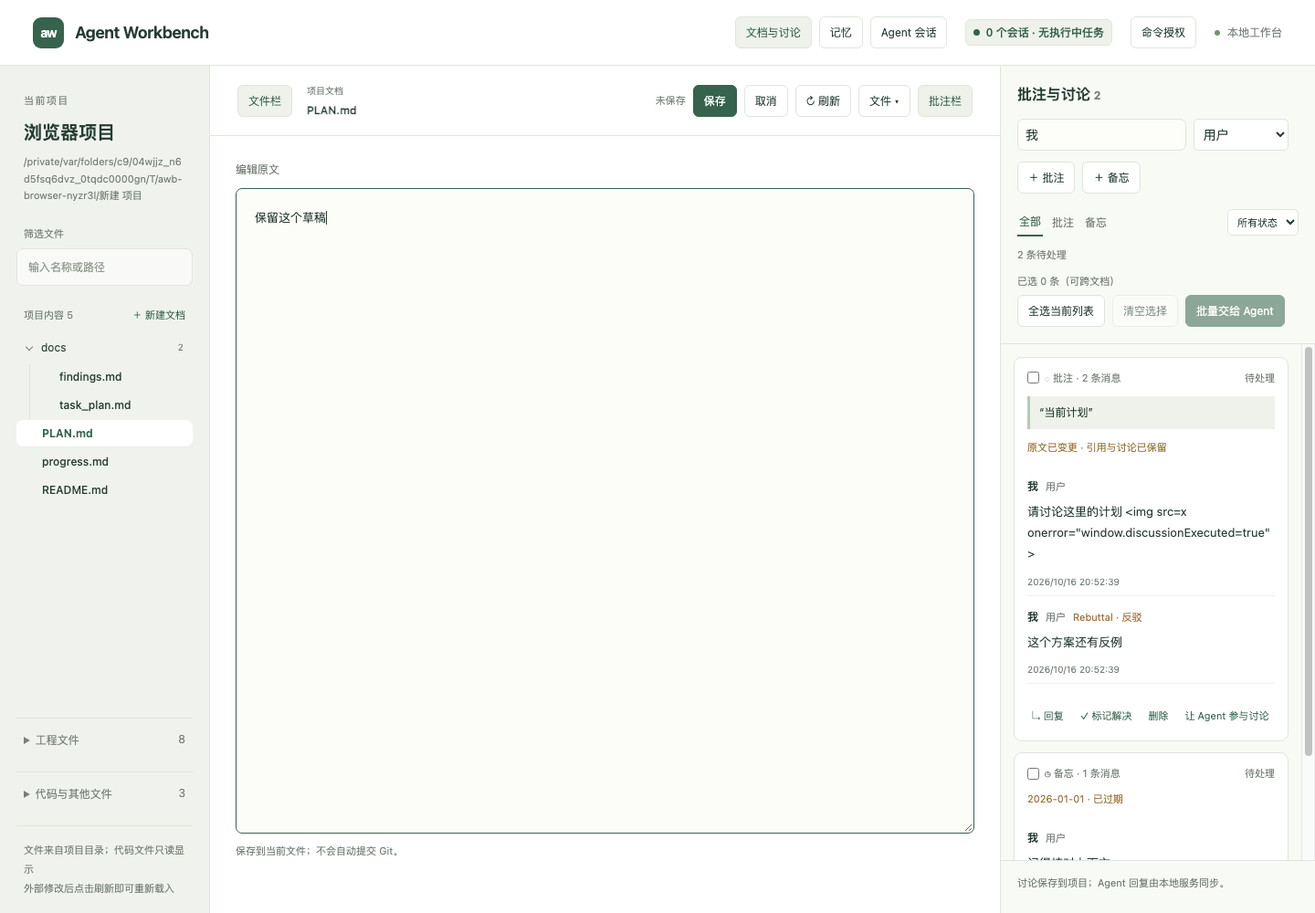
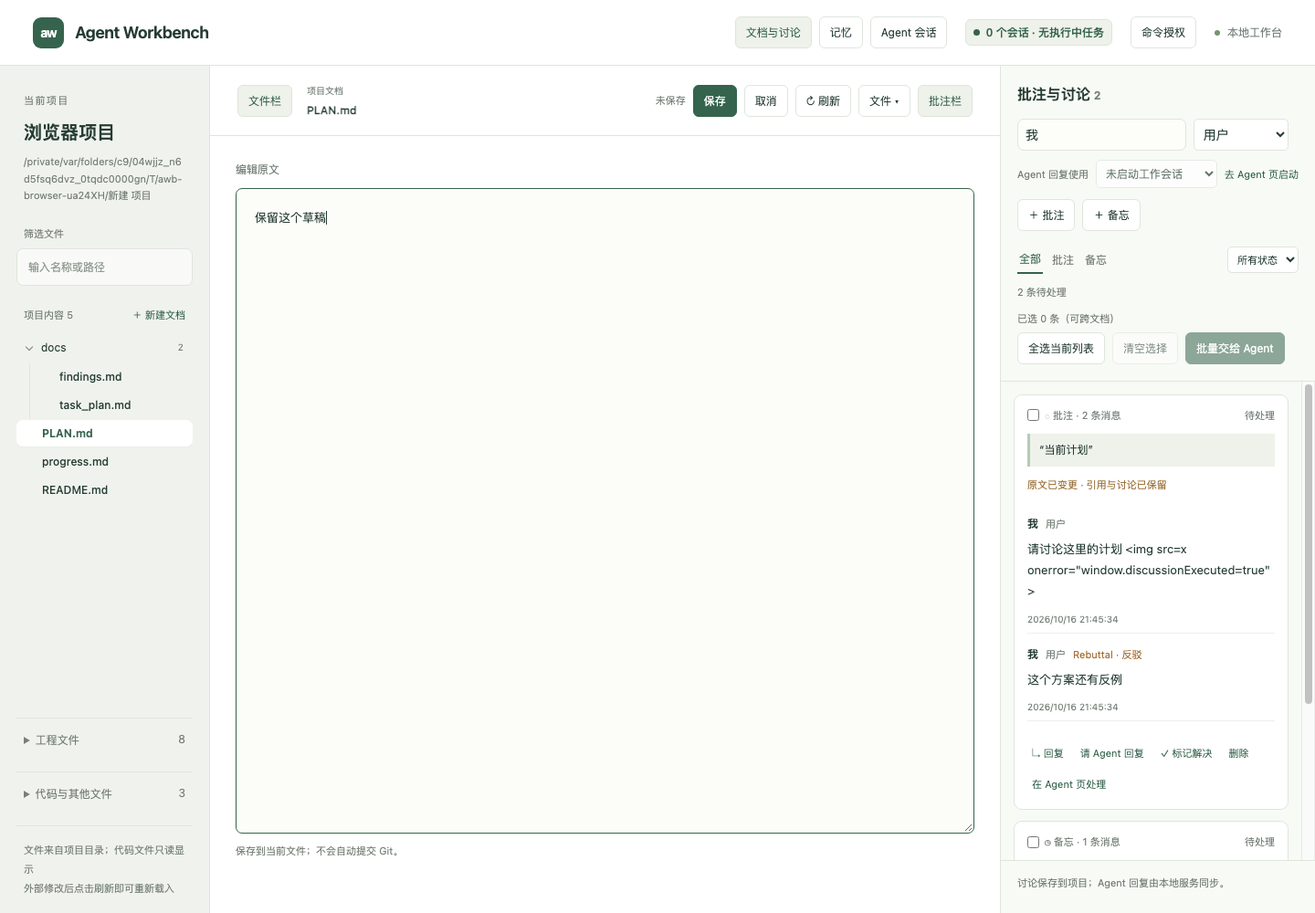
Make the document page the primary surface for discussions
Annotations are composed and expanded inline under the quoted
paragraph instead of in modal dialogs; whole-document comments and
memos use a composer at the top of the discussion panel. Annotated
paragraphs show markers, and one thread at a time expands inline
while the panel shows it in compact form.

A reply-agent selector in the panel lets "请 Agent 回复" and
"保存并请 Agent 回复" open the document's discussion session and send
the thread directly from the document page, without preview or a page
switch. Threads show agent progress (sending, replying, queued,
writing back) and the written-back reply appears in place. The agent
page keeps timelines, logs, approvals and queues; its task input can
now send without a prior preview, and its discussion panel gains a
save-and-ask action.

Closes #18
Closes #14
Closes #20
Closes #21

diff --git a/internal/server/web/collaboration.js b/internal/server/web/collaboration.js
@@ -2,8 +2,13 @@
 let collaboration = null;
 let threadFilter = 'all';
 let pendingAnchor = null;
+let pendingBlock = null;
 let discussionBusy = false;
 let dialogAction = null;
+// 正文内展开的讨论：同一时刻只展开一条，批注栏中对应条目改为简要显示。
+let openThreadID = '';
+// 编辑框状态：引用批注放在所选段落下方，整篇意见与备忘放在批注栏顶部；切换文档时保留内容。
+let composer = null;
 const replyDrafts = new Map();
 const esc = value => escapeHTML(String(value)).replaceAll('"','&quot;').replaceAll("'",'&#39;');
 const clone = value => structuredClone(value);
@@ -11,39 +16,83 @@ const uid = () => crypto.randomUUID();
 const currentDocument = () => collaboration?.documents.find(d => d.id === selected);
 const identity = () => ({author:$('author-name').value.trim()||'我',role:$('author-role').value});
 const makeMessage = (body,intent='comment') => ({id:uid(),...identity(),body:body.trim(),intent,createdAt:new Date().toISOString()});
+const articleBlocks = () => Array.from($('article').children).filter(el=>!el.hasAttribute('data-inline'));
 
 async function loadCollaboration() {
   try{collaboration = await api('collaboration');renderThreads();}
   catch(error){$('discussion-status').textContent='讨论读取失败：'+error.message;throw error;}
 }
 function resetDiscussionSelection() {
-  pendingAnchor=null;$('selection-tool').hidden=true;
+  pendingAnchor=null;pendingBlock=null;$('selection-tool').hidden=true;
 }
 function locateAnchor(anchor) {
   if(!anchor)return {element:null,reason:''};
   if(selectedKind!=='document'||!markdown)return {element:null,reason:'当前未载入正文'};
-  const matches=Array.from($('article').children).filter(el=>el.textContent.includes(anchor.quote));
+  const matches=articleBlocks().filter(el=>el.textContent.includes(anchor.quote));
   if(matches.length===1)return {element:matches[0],reason:''};
   if(matches.length>1){const contextual=matches.filter(el=>el.textContent.includes(anchor.before+anchor.quote+anchor.after));if(contextual.length===1)return {element:contextual[0],reason:''};return {element:null,reason:'原文有多处匹配，请结合引用确认位置'};}
   return {element:null,reason:'原文已变更 · 引用与讨论已保留'};
+}
+const inlineReady = () => selectedKind==='document'&&!!markdown&&!raw&&!!collaboration;
+function threadCardHTML(t,place) {
+  const inline=place==='inline',draft=replyDrafts.get(t.id),warning=inline?'':locateAnchor(t.anchor).reason;
+  const overdue=t.dueDate&&t.dueDate<new Date().toLocaleDateString('sv-SE')&&t.status==='open';
+  const label=`${t.kind==='memo'?'◷ 备忘':'◌ 批注'} · ${t.messages.length} 条消息`;
+  const top=`<div class="thread-top">${inline?`<span>${label}</span>`:`<label class="thread-select"><input type="checkbox" data-select-thread="${esc(t.id)}" aria-label="选择这条讨论" ${selectedDiscussionIDs.has(t.id)?'checked':''} ${batchBusy?'disabled':''}><span>${label}</span></label>`}<span>${t.status==='resolved'?'✓ 已解决':'待处理'}</span></div>`;
+  const status=`<div class="thread-agent-status" data-discussion-sessions="${esc(t.id)}"></div>`;
+  if(!inline&&t.id===openThreadID)return `<section class="thread compact ${t.status==='resolved'?'resolved':''}" data-thread="${esc(t.id)}">${top}<button class="thread-quote" data-locate="${esc(t.id)}">“${esc(t.anchor.quote)}”</button><p class="inline-note">已在正文中展开 <button type="button" data-collapse="${esc(t.id)}">收起</button></p>${status}</section>`;
+  const quote=!t.anchor?'':inline?`<blockquote class="thread-quote-text">${esc(t.anchor.quote)}</blockquote>`:`<button class="thread-quote" data-locate="${esc(t.id)}">“${esc(t.anchor.quote)}”</button>`;
+  return `<section class="thread ${inline?'inline-card':''} ${t.status==='resolved'?'resolved':''}" data-thread="${esc(t.id)}">${top}${quote}${warning?`<p class="anchor-warning">${esc(warning)}</p>`:''}${t.dueDate?`<p class="due">${esc(t.dueDate)}${overdue?' · 已过期':''}</p>`:''}${t.messages.map(m=>`<div class="message"><div class="message-meta"><strong>${esc(m.author)}</strong><span>${m.role==='agent'?'AGENT':'用户'}</span>${m.intent!=='comment'?`<span class="${m.intent}">${m.intent==='rebuttal'?'Rebuttal · 反驳':'结论'}</span>`:''}</div><div class="message-body markdown-message" data-message-id="${esc(m.id)}"></div><time>${esc(new Date(m.createdAt).toLocaleString('zh-CN'))}</time></div>`).join('')}${status}<div class="thread-bottom"><button data-reply="${esc(t.id)}">↳ 回复</button><button data-ask="${esc(t.id)}">请 Agent 回复</button><button data-resolve="${esc(t.id)}">${t.status==='resolved'?'重新打开':'✓ 标记解决'}</button><button data-delete="${esc(t.id)}">删除</button><button data-forward="${esc(t.id)}">在 Agent 页处理</button>${inline?`<button data-collapse="${esc(t.id)}">收起</button>`:''}</div><div class="reply-form" data-form="${esc(t.id)}" ${draft?'':'hidden'}><textarea aria-label="回复内容" data-draft="${esc(t.id)}" placeholder="补充意见、证据或修改建议…">${esc(draft?.body||'')}</textarea><div class="reply-actions"><select aria-label="回复类型"><option value="comment">普通回复</option><option value="rebuttal" ${draft?.intent==='rebuttal'?'selected':''}>Rebuttal · 反驳</option><option value="decision" ${draft?.intent==='decision'?'selected':''}>结论</option></select><span class="reply-buttons"><button class="small-button" data-send="${esc(t.id)}">发送回复</button><button class="small-button save-button" data-send-ask="${esc(t.id)}">保存并请 Agent 回复</button></span></div></div></section>`;
+}
+function renderMessageBodies(container,threads) {
+  for(const element of container.querySelectorAll('[data-message-id]')){const message=threads.flatMap(t=>t.messages).find(m=>m.id===element.dataset.messageId);if(message)renderProjectMarkdown(element,message.body,selected);}
 }
 function renderThreads() {
   const ready=!!collaboration&&selectedKind==='document'&&!!currentDocument();
   $('add-comment').disabled=!ready||discussionBusy;$('add-memo').disabled=!ready||discussionBusy;
   const all=collaboration?.threads.filter(t=>t.documentId===selected)||[];
+  if(openThreadID&&!(inlineReady()&&all.some(t=>t.id===openThreadID&&locateAnchor(t.anchor).element)))openThreadID='';
+  // 重新渲染会替换回复框；记录焦点与光标，渲染后恢复，避免轮询打断输入。
+  const active=document.activeElement,focusDraft=active?.dataset?.draft,caret=focusDraft?[active.selectionStart,active.selectionEnd]:null;
   $('thread-total').textContent=String(all.length);
   $('pending-count').textContent=`${all.filter(t=>t.status==='open').length} 条待处理`;
   const status=$('status-filter').value;
   const list=all.filter(t=>(threadFilter==='all'||t.kind===threadFilter)&&(status==='all'||t.status===status));
   visibleDiscussionIDs=list.map(t=>t.id);updateBatchSelection();
-  $('thread-list').innerHTML=list.length?list.map(t=>{
-    const draft=replyDrafts.get(t.id),warning=locateAnchor(t.anchor).reason;
-    const overdue=t.dueDate&&t.dueDate<new Date().toLocaleDateString('sv-SE')&&t.status==='open';
-    return `<section class="thread ${t.status==='resolved'?'resolved':''}" data-thread="${esc(t.id)}"><div class="thread-top"><label class="thread-select"><input type="checkbox" data-select-thread="${esc(t.id)}" aria-label="选择这条讨论" ${selectedDiscussionIDs.has(t.id)?'checked':''} ${batchBusy?'disabled':''}><span>${t.kind==='memo'?'◷ 备忘':'◌ 批注'} · ${t.messages.length} 条消息</span></label><span>${t.status==='resolved'?'✓ 已解决':'待处理'}</span></div>${t.anchor?`<button class="thread-quote" data-locate="${esc(t.id)}">“${esc(t.anchor.quote)}”</button>`:''}${warning?`<p class="anchor-warning">${esc(warning)}</p>`:''}${t.dueDate?`<p class="due">${esc(t.dueDate)}${overdue?' · 已过期':''}</p>`:''}${t.messages.map(m=>`<div class="message"><div class="message-meta"><strong>${esc(m.author)}</strong><span>${m.role==='agent'?'AGENT':'用户'}</span>${m.intent!=='comment'?`<span class="${m.intent}">${m.intent==='rebuttal'?'Rebuttal · 反驳':'结论'}</span>`:''}</div><div class="message-body markdown-message" data-message-id="${esc(m.id)}"></div><time>${esc(new Date(m.createdAt).toLocaleString('zh-CN'))}</time></div>`).join('')}<div class="thread-agent-status" data-discussion-sessions="${esc(t.id)}"></div><div class="thread-bottom"><button data-reply="${esc(t.id)}">↳ 回复</button><button data-resolve="${esc(t.id)}">${t.status==='resolved'?'重新打开':'✓ 标记解决'}</button><button data-delete="${esc(t.id)}">删除</button><button data-forward="${esc(t.id)}">让 Agent 参与讨论</button></div><div class="reply-form" data-form="${esc(t.id)}" ${draft?'':'hidden'}><textarea aria-label="回复内容" data-draft="${esc(t.id)}" placeholder="补充意见、证据或修改建议…">${esc(draft?.body||'')}</textarea><div class="reply-actions"><select aria-label="回复类型"><option value="comment">普通回复</option><option value="rebuttal" ${draft?.intent==='rebuttal'?'selected':''}>Rebuttal · 反驳</option><option value="decision" ${draft?.intent==='decision'?'selected':''}>结论</option></select><button class="small-button save-button" data-send="${esc(t.id)}">发送回复</button></div></div></section>`;
-  }).join(''):`<p class="empty-list">${selectedKind==='diagram'?'交互图在中间操作；选择文档可添加讨论。':selectedKind==='file'?'代码与其他文件只读显示，不支持批注；选择 Markdown 文档可添加讨论。':collaboration?'选中原文添加批注，或留下整篇意见与备忘。':'讨论尚未载入，请刷新重试。'}</p>`;
-  for(const element of $('thread-list').querySelectorAll('[data-message-id]')){const message=all.flatMap(t=>t.messages).find(m=>m.id===element.dataset.messageId);if(message)renderProjectMarkdown(element,message.body,selected);}
+  $('thread-list').innerHTML=list.length?list.map(t=>threadCardHTML(t,'panel')).join(''):`<p class="empty-list">${selectedKind==='diagram'?'交互图在中间操作；选择文档可添加讨论。':selectedKind==='file'?'代码与其他文件只读显示，不支持批注；选择 Markdown 文档可添加讨论。':collaboration?'选中原文添加批注，或留下整篇意见与备忘。':'讨论尚未载入，请刷新重试。'}</p>`;
+  renderMessageBodies($('thread-list'),all);
+  renderInlineDiscussion();
+  if(focusDraft){const target=document.querySelector(`[data-draft="${CSS.escape(focusDraft)}"]`);if(target){target.focus();target.setSelectionRange(...caret);}}
   if(typeof renderAgentStatus==='function')renderAgentStatus();
-  if(discussionBusy)for(const control of $('thread-list').querySelectorAll('button'))control.disabled=true;
+  if(discussionBusy)for(const control of document.querySelectorAll('#thread-list button,#article [data-inline] button'))control.disabled=true;
+}
+// 正文内显示：带引用批注的段落下方列出批注标记，展开的讨论显示在标记下方。插入的元素带 data-inline，不参与引用定位与选区计算。
+function renderInlineDiscussion() {
+  for(const el of $('article').querySelectorAll('[data-inline]:not(#inline-composer)'))el.remove();
+  for(const el of $('article').querySelectorAll('.has-thread'))el.classList.remove('has-thread');
+  if(inlineReady()){
+    const groups=new Map();
+    for(const t of collaboration.threads.filter(t=>t.documentId===selected&&t.anchor)){const {element}=locateAnchor(t.anchor);if(!element)continue;if(!groups.has(element))groups.set(element,[]);groups.get(element).push(t);}
+    for(const [element,threads] of groups){
+      element.classList.add('has-thread');
+      const bar=document.createElement('div');bar.className='thread-markers';bar.dataset.inline='';
+      for(const t of threads){const chip=document.createElement('button');chip.type='button';chip.className='thread-marker';chip.dataset.openThread=t.id;chip.classList.toggle('resolved',t.status==='resolved');chip.setAttribute('aria-expanded',String(t.id===openThreadID));const quote=t.anchor.quote.trim();chip.textContent=`◌ ${quote.length>18?quote.slice(0,18)+'…':quote} · ${t.messages.length}`;chip.title='在此展开讨论';bar.append(chip);}
+      element.after(bar);
+      const open=threads.find(t=>t.id===openThreadID);
+      if(open){const box=document.createElement('div');box.className='inline-thread';box.dataset.inline='';box.innerHTML=threadCardHTML(open,'inline');renderMessageBodies(box,[open]);bar.after(box);}
+    }
+  }
+  placeComposer();
+}
+function openThreadInline(id) {
+  const thread=collaboration?.threads.find(t=>t.id===id);if(!thread)return;
+  if(editing){$('discussion-status').textContent='请保存或取消原文编辑后定位';return;}
+  if(raw){raw=false;renderMarkdown();}
+  for(const el of $('article').querySelectorAll('.anchored'))el.classList.remove('anchored');
+  const found=locateAnchor(thread.anchor);
+  if(!found.element){$('discussion-status').textContent=found.reason;return;}
+  openThreadID=id;found.element.classList.add('anchored');renderThreads();
+  $('article').querySelector('.inline-thread')?.scrollIntoView({behavior:'smooth',block:'nearest'});
 }
 async function persistThreads(next) {
   if(discussionBusy)throw new Error('正在保存讨论，请稍候');
@@ -72,21 +121,52 @@ $('discussion-form').addEventListener('submit',async event=>{
   catch(error){$('discussion-dialog-error').textContent=error.message;$('discussion-dialog-error').hidden=false;}
   finally{$('discussion-dialog-submit').disabled=false;$('discussion-dialog-cancel').disabled=false;}
 });
-function composeThread(kind,anchor=null) {
-  const documentId=selected;
-  if(!currentDocument()||selectedKind!=='document')return;
-  const quote=anchor?clone(anchor):null;
-  $('selection-tool').hidden=true;
-  openDiscussionDialog(kind==='memo'?'添加备忘':'添加批注',`${quote?`<blockquote>${esc(quote.quote)}</blockquote>`:`<p>关联文档：${esc(documentId)}</p>`}<label>内容<textarea id="compose-body" required maxlength="20000" placeholder="写下问题、建议或下一步…"></textarea></label><label>消息意图<select id="compose-intent"><option value="comment">普通意见</option><option value="rebuttal">Rebuttal · 反驳</option><option value="decision">结论</option></select></label>${kind==='memo'?'<label>备忘日期（可选）<input type="date" id="compose-date"></label><p>日期只在页面提示，不推送通知。</p>':''}`,async()=>{
-    const body=$('compose-body').value.trim();if(!body)throw new Error('请填写内容');
-    const next=clone(collaboration.threads);
-    next.push({id:uid(),documentId,kind,status:'open',dueDate:kind==='memo'?$('compose-date').value:'',anchor:quote,messages:[makeMessage(body,$('compose-intent').value)]});
-    await persistThreads(next);
-    threadFilter='all';$('status-filter').value='all';updateThreadFilters();renderThreads();
-    window.getSelection()?.removeAllRanges();
-  });$('compose-body').focus();
+
+// 编辑框为常驻表单，移动位置时保留输入内容。
+const composerForm=document.createElement('form');
+composerForm.id='inline-composer';composerForm.className='inline-composer';composerForm.dataset.inline='';
+const cf=id=>composerForm.querySelector('#'+id);
+composerForm.innerHTML='<p id="compose-title" class="compose-title"></p><blockquote id="compose-quote" hidden></blockquote><textarea id="compose-body" required maxlength="20000" aria-label="批注内容" placeholder="写下问题、建议或下一步…"></textarea><div class="compose-options"><select id="compose-intent" aria-label="消息意图"><option value="comment">普通意见</option><option value="rebuttal">Rebuttal · 反驳</option><option value="decision">结论</option></select><label id="compose-date-label" hidden>备忘日期（可选）<input type="date" id="compose-date"></label></div><p id="compose-error" role="alert" hidden></p><div class="reply-actions"><button type="button" id="compose-cancel" class="small-button">取消</button><span class="reply-buttons"><button type="submit" id="compose-save" class="small-button">保存</button><button type="button" id="compose-ask" class="small-button save-button">保存并请 Agent 回复</button></span></div>';
+function placeComposer() {
+  if(!composer||composer.documentId!==selected||selectedKind!=='document'||composer.anchor&&!markdown){composerForm.remove();return;}
+  const found=composer.anchor&&inlineReady()?locateAnchor(composer.anchor).element:null;
+  if(found){if(found.nextElementSibling!==composerForm)found.after(composerForm);}
+  else if(composerForm.parentElement!==$('panel-composer'))$('panel-composer').append(composerForm);
 }
+function composeThread(kind,anchor=null,block=null) {
+  if(!currentDocument()||selectedKind!=='document')return;
+  if(composer&&cf('compose-body').value.trim()&&!confirm('放弃当前未保存的批注？'))return;
+  composer={kind,documentId:selected,anchor:anchor?clone(anchor):null};
+  cf('compose-title').textContent=kind==='memo'?'添加备忘':anchor?'添加批注':'添加整篇意见';
+  cf('compose-quote').textContent=anchor?anchor.quote:'';cf('compose-quote').hidden=!anchor;
+  cf('compose-body').value='';cf('compose-intent').value='comment';cf('compose-date').value='';cf('compose-date-label').hidden=kind!=='memo';cf('compose-error').hidden=true;
+  $('selection-tool').hidden=true;
+  if(block&&inlineReady())block.after(composerForm);else placeComposer();
+  composerForm.scrollIntoView({block:'nearest'});cf('compose-body').focus({preventScroll:true});
+}
+function closeComposer() {composer=null;cf('compose-body').value='';composerForm.remove();}
+async function submitComposer(ask) {
+  if(!composer||discussionBusy)return;
+  const body=cf('compose-body').value.trim();
+  for(const id of ['compose-save','compose-ask','compose-cancel'])cf(id).disabled=true;cf('compose-error').hidden=true;
+  try{
+    if(!body)throw new Error('请填写内容');
+    const id=uid(),next=clone(collaboration.threads);
+    next.push({id,documentId:composer.documentId,kind:composer.kind,status:'open',dueDate:composer.kind==='memo'?cf('compose-date').value:'',anchor:composer.anchor,messages:[makeMessage(body,cf('compose-intent').value)]});
+    await persistThreads(next);
+    const anchored=!!composer.anchor;closeComposer();window.getSelection()?.removeAllRanges();
+    threadFilter='all';$('status-filter').value='all';updateThreadFilters();
+    if(anchored)openThreadInline(id);else renderThreads();
+    if(ask)await requestAgentReply(id);
+  }catch(error){cf('compose-error').textContent=error.message;cf('compose-error').hidden=false;}
+  finally{for(const id of ['compose-save','compose-ask','compose-cancel'])cf(id).disabled=false;}
+}
+composerForm.addEventListener('submit',event=>{event.preventDefault();submitComposer(false);});
+cf('compose-ask').onclick=()=>submitComposer(true);
+cf('compose-cancel').onclick=()=>{if(!discussionBusy)closeComposer();};
+composerForm.addEventListener('keydown',event=>{if(event.key==='Escape'&&!discussionBusy&&!cf('compose-body').value.trim())closeComposer();});
 $('add-comment').onclick=()=>composeThread('comment');$('add-memo').onclick=()=>composeThread('memo');
+
 function captureSelection() {
   if(editing||raw||selectedKind!=='document'||$('discussion-dialog').open)return resetDiscussionSelection();
   const selection=window.getSelection();
@@ -96,48 +176,47 @@ function captureSelection() {
   function block(node){let el=node.nodeType===1?node:node.parentElement;while(el&&el.parentElement!==$('article'))el=el.parentElement;return el;}
   const start=block(range.startContainer),end=block(range.endContainer);
   const quote=selection.toString();
-  if(start!==end||!quote.trim()||quote.length>20000)return resetDiscussionSelection();
+  if(start!==end||start?.hasAttribute('data-inline')||!quote.trim()||quote.length>20000)return resetDiscussionSelection();
   // Range 定位实际选中位置，避免重复文字取到第一个匹配。
   const prefix=document.createRange();prefix.selectNodeContents(start);prefix.setEnd(range.startContainer,range.startOffset);
   const index=prefix.toString().length,text=start.textContent;
-  pendingAnchor={quote,before:text.slice(Math.max(0,index-48),index),after:text.slice(index+quote.length,index+quote.length+48),revision:currentDocument()?.revision||1};
+  pendingAnchor={quote,before:text.slice(Math.max(0,index-48),index),after:text.slice(index+quote.length,index+quote.length+48),revision:currentDocument()?.revision||1};pendingBlock=start;
   const rect=range.getBoundingClientRect();$('selection-tool').style.left=Math.min(Math.max(12,rect.left),window.innerWidth-170)+'px';$('selection-tool').style.top=Math.max(8,rect.top-42)+'px';$('selection-tool').hidden=false;
 }
-$('article').addEventListener('mouseup',()=>setTimeout(captureSelection,10));$('article').addEventListener('keyup',captureSelection);
+$('article').addEventListener('mouseup',()=>setTimeout(captureSelection,10));$('article').addEventListener('keyup',event=>{if(!event.target.closest('[data-inline]'))captureSelection();});
 document.querySelector('.reader').addEventListener('scroll',()=>$('selection-tool').hidden=true);
-$('selection-tool').onpointerdown=event=>event.preventDefault();$('selection-tool').onclick=()=>composeThread('comment',pendingAnchor);
+$('selection-tool').onpointerdown=event=>event.preventDefault();$('selection-tool').onclick=()=>composeThread('comment',pendingAnchor,pendingBlock);
 document.addEventListener('pointerdown',event=>{if(!event.target.closest('#article')&&!event.target.closest('#selection-tool'))$('selection-tool').hidden=true;});
 function updateThreadFilters(){for(const button of document.querySelectorAll('[data-thread-filter]'))button.setAttribute('aria-pressed',String(button.dataset.threadFilter===threadFilter));}
 for(const button of document.querySelectorAll('[data-thread-filter]'))button.onclick=()=>{threadFilter=button.dataset.threadFilter;updateThreadFilters();renderThreads();};
 $('status-filter').onchange=renderThreads;
 $('thread-list').addEventListener('change',event=>{if(event.target.dataset.selectThread){const id=event.target.dataset.selectThread;if(event.target.checked)selectedDiscussionIDs.add(id);else selectedDiscussionIDs.delete(id);updateBatchSelection();}});
-$('thread-list').addEventListener('input',event=>{
+function trackReplyDraft(event){
   const form=event.target.closest('[data-form]');if(form)replyDrafts.set(form.dataset.form,{body:form.querySelector('textarea').value,intent:form.querySelector('select').value});
-});
-$('thread-list').addEventListener('click',async event=>{
+}
+async function handleThreadClick(event){
   const button=event.target.closest('button');if(!button||discussionBusy||!collaboration)return;
-  const id=button.dataset.reply||button.dataset.resolve||button.dataset.send||button.dataset.delete||button.dataset.locate||button.dataset.forward;
+  const data=button.dataset,id=data.reply||data.resolve||data.send||data.sendAsk||data.ask||data.delete||data.locate||data.forward||data.collapse||data.openThread;
   const thread=collaboration.threads.find(t=>t.id===id);if(!thread)return;
-  if(button.dataset.forward){forwardThreadToAgent(id);return;}
-  if(button.dataset.locate){
-    if(editing){$('discussion-status').textContent='请保存或取消原文编辑后定位';return;}
-    if(raw){raw=false;renderMarkdown();}
-    $('article').querySelectorAll('.anchored').forEach(el=>el.classList.remove('anchored'));
-    const found=locateAnchor(thread.anchor);if(found.element){found.element.classList.add('anchored');found.element.scrollIntoView({behavior:'smooth',block:'center'});}else $('discussion-status').textContent=found.reason;return;
-  }
-  if(button.dataset.reply){replyDrafts.set(id,replyDrafts.get(id)||{body:'',intent:'comment'});renderThreads();Array.from($('thread-list').querySelectorAll('[data-form]')).find(el=>el.dataset.form===id)?.querySelector('textarea').focus();return;}
+  if(data.forward){forwardThreadToAgent(id);return;}
+  if(data.locate||data.openThread){if(data.openThread&&openThreadID===id){openThreadID='';renderThreads();}else openThreadInline(id);return;}
+  if(data.collapse){openThreadID='';renderThreads();return;}
+  if(data.reply){replyDrafts.set(id,replyDrafts.get(id)||{body:'',intent:'comment'});renderThreads();document.querySelector(`[data-form="${CSS.escape(id)}"] textarea`)?.focus();return;}
+  if(data.ask){try{await requestAgentReply(id);showError(null);}catch(error){showError(error);}return;}
   try {
     const next=clone(collaboration.threads),target=next.find(t=>t.id===id);
-    if(button.dataset.resolve)target.status=target.status==='open'?'resolved':'open';
-    if(button.dataset.delete){if(!confirm('删除这条讨论及全部回复？'))return;next.splice(next.indexOf(target),1);}
-    if(button.dataset.send){const form=button.closest('[data-form]'),body=form.querySelector('textarea').value.trim();if(!body)throw new Error('请填写回复');replyDrafts.set(id,{body,intent:form.querySelector('select').value});target.messages.push(makeMessage(body,form.querySelector('select').value));}
+    if(data.resolve)target.status=target.status==='open'?'resolved':'open';
+    if(data.delete){if(!confirm('删除这条讨论及全部回复？'))return;next.splice(next.indexOf(target),1);}
+    if(data.send||data.sendAsk){const form=button.closest('[data-form]'),body=form.querySelector('textarea').value.trim();if(!body)throw new Error('请填写回复');replyDrafts.set(id,{body,intent:form.querySelector('select').value});target.messages.push(makeMessage(body,form.querySelector('select').value));}
     await persistThreads(next);
-    if(button.dataset.send||button.dataset.delete){replyDrafts.delete(id);renderThreads();}
+    if(data.send||data.sendAsk||data.delete){replyDrafts.delete(id);renderThreads();}
+    if(data.sendAsk)await requestAgentReply(id);
     showError(null);
   }catch(error){showError(error);}
-});
+}
+for(const container of [$('thread-list'),$('article')]){container.addEventListener('click',handleThreadClick);container.addEventListener('input',trackReplyDraft);container.addEventListener('change',trackReplyDraft);}
 
 window.addEventListener('beforeunload',event=>{
-  const compose=$('discussion-dialog').open&&$('compose-body')?.value.trim();
+  const compose=composer&&cf('compose-body').value.trim();
   if(discussionBusy||compose||Array.from(replyDrafts.values()).some(draft=>draft.body.trim())){event.preventDefault();event.returnValue='';}
 });

diff --git a/internal/server/web/index.html b/internal/server/web/index.html
@@ -24,9 +24,10 @@
  <aside id="discussion-panel" class="discussion" aria-label="批注与讨论">
  <div class="discussion-head"><h2>批注与讨论 <span id="thread-total">0</span></h2>
  <div class="identity-line"><input id="author-name" value="我" maxlength="80" aria-label="当前署名"><select id="author-role" aria-label="作者角色"><option value="human">用户</option><option value="agent">Agent 署名</option></select></div>
+ <div class="reply-agent-line"><label for="reply-agent">Agent 回复使用</label><select id="reply-agent" aria-label="请 Agent 回复时使用的工作会话"></select><button id="reply-agent-start" type="button" class="link-button" hidden>去 Agent 页启动</button></div>
  <div class="discussion-actions"><button id="add-comment" class="small-button">＋ 批注</button><button id="add-memo" class="small-button">＋ 备忘</button></div>
  <div class="panel-tabs"><button data-thread-filter="all" aria-pressed="true">全部</button><button data-thread-filter="comment" aria-pressed="false">批注</button><button data-thread-filter="memo" aria-pressed="false">备忘</button><select id="status-filter" aria-label="处理状态筛选"><option value="all">所有状态</option><option value="open">待处理</option><option value="resolved">已解决</option></select></div>
- <p id="pending-count"></p><div class="batch-selection"><span id="batch-selection-count">已选 0 条（可跨文档）</span><div class="discussion-actions"><button id="batch-select-visible" class="small-button">全选当前列表</button><button id="batch-clear-selection" class="small-button" disabled>清空选择</button><button id="batch-open" class="small-button save-button" disabled>批量交给 Agent</button></div></div></div><div id="thread-list" class="thread-list"></div>
+ <p id="pending-count"></p><div class="batch-selection"><span id="batch-selection-count">已选 0 条（可跨文档）</span><div class="discussion-actions"><button id="batch-select-visible" class="small-button">全选当前列表</button><button id="batch-clear-selection" class="small-button" disabled>清空选择</button><button id="batch-open" class="small-button save-button" disabled>批量交给 Agent</button></div></div></div><div id="panel-composer" class="panel-composer"></div><div id="thread-list" class="thread-list"></div>
  <div class="discussion-footer"><p id="discussion-status" role="status">讨论保存到项目；Agent 回复由本地服务同步。</p></div>
  </aside>
 </div>
@@ -34,8 +35,8 @@
  <aside class="agent-sidebar"><span class="eyebrow">原生会话</span><h2>项目中的 Agent</h2><button id="new-agent" class="small-button save-button">＋ 启动 Codex</button><nav id="agent-list" aria-label="Agent 会话"></nav><p>会话共享当前项目目录。输入通过本地服务交给原生 Codex。</p></aside>
  <main class="agent-main"><div class="agent-toolbar"><div><h2 id="agent-title">选择或创建会话</h2><p id="agent-state" class="agent-state-badge" role="status" aria-live="polite"></p><p id="agent-config"></p></div><div class="agent-controls"><button id="configure-agent-authorizations" class="small-button" disabled>命令授权</button><button id="delete-agent" class="small-button" disabled>删除会话</button><button id="resume-agent" class="small-button" hidden>恢复会话</button><button id="interrupt-agent" class="small-button" disabled>停止回合</button><button id="compact-agent" class="small-button" disabled>清空上下文</button><button id="close-agent" class="small-button" disabled>关闭会话</button></div></div>
  <div id="agent-requests" class="agent-requests"></div><div id="agent-queue" class="agent-queue" hidden><span id="agent-queue-count"></span><button id="continue-agent-queue" class="small-button">继续队列</button><button id="clear-agent-queue" class="small-button">清空队列</button></div>
- <div class="agent-log-heading"><span>对话与执行 · 各保留最近 100 条</span><label><input id="agent-raw-events" type="checkbox"> 显示原始事件</label><span id="agent-log-status" role="status"></span></div><details id="agent-history" class="agent-history"><summary>查看完整原始日志</summary><div class="agent-history-actions"><button id="agent-history-previous" type="button" class="small-button" disabled>上一批</button><button id="agent-history-next" type="button" class="small-button">下一批</button><span id="agent-history-range"></span></div><pre id="agent-history-content"></pre></details><div class="agent-content"><div id="agent-events" class="agent-events agent-timelines"><section class="agent-timeline"><h3>对话</h3><p id="agent-activity" class="agent-activity" role="status" aria-live="polite" hidden></p><div id="agent-conversation" class="timeline-content"></div></section><section class="agent-timeline"><h3>执行过程</h3><div id="agent-execution" class="timeline-content"></div></section></div><aside id="agent-bound-discussion" class="bound-discussion" hidden><h3 id="agent-discussion-title">关联讨论</h3><p id="agent-discussion-origin"></p><div class="bound-actions"><button id="open-agent-document" type="button" class="small-button">查看文档</button><button id="return-to-work" type="button" class="small-button">送回工作会话</button></div><div id="agent-discussion-messages"></div><form id="agent-discussion-form"><label for="agent-discussion-thread">回复到</label><select id="agent-discussion-thread"></select><label for="agent-discussion-reply">发言</label><textarea id="agent-discussion-reply" maxlength="20000" required></textarea><button id="save-agent-discussion-reply" class="small-button" type="submit">保存发言</button><small>仅保存讨论；预览并发送后才启动 Agent。</small></form><p id="agent-discussion-sync" role="status"></p></aside></div>
- <form id="agent-input-form" class="agent-input-form"><label for="agent-message">给 Agent 的任务或消息</label><textarea id="agent-message" placeholder="描述要做的事，或从文档讨论手动转发…" maxlength="20000" required></textarea><div class="agent-input-options"><label><input id="include-current-document" type="checkbox"> 附上文档正文（可选） <span id="agent-document-label"></span></label><span id="agent-thread-context"></span><label id="full-context-option" hidden><input id="full-agent-context" type="checkbox"> 重发完整讨论</label><button id="clear-agent-thread" type="button" class="small-button" hidden>改为全部待处理讨论</button></div><details id="agent-preview-panel" hidden><summary>将发送的完整内容</summary><pre id="agent-preview"></pre></details><p id="agent-send-hint" class="subtle" role="status">输入消息后，先点击「预览任务」，再发送。</p><div class="agent-input-actions"><span id="agent-input-status" role="status"></span><button id="preview-agent-input" type="button" class="small-button">预览任务</button><button id="send-agent-input" type="submit" class="small-button save-button" disabled>发送</button></div></form>
+ <div class="agent-log-heading"><span>对话与执行 · 各保留最近 100 条</span><label><input id="agent-raw-events" type="checkbox"> 显示原始事件</label><span id="agent-log-status" role="status"></span></div><details id="agent-history" class="agent-history"><summary>查看完整原始日志</summary><div class="agent-history-actions"><button id="agent-history-previous" type="button" class="small-button" disabled>上一批</button><button id="agent-history-next" type="button" class="small-button">下一批</button><span id="agent-history-range"></span></div><pre id="agent-history-content"></pre></details><div class="agent-content"><div id="agent-events" class="agent-events agent-timelines"><section class="agent-timeline"><h3>对话</h3><p id="agent-activity" class="agent-activity" role="status" aria-live="polite" hidden></p><div id="agent-conversation" class="timeline-content"></div></section><section class="agent-timeline"><h3>执行过程</h3><div id="agent-execution" class="timeline-content"></div></section></div><aside id="agent-bound-discussion" class="bound-discussion" hidden><h3 id="agent-discussion-title">关联讨论</h3><p id="agent-discussion-origin"></p><div class="bound-actions"><button id="open-agent-document" type="button" class="small-button">查看文档</button><button id="return-to-work" type="button" class="small-button">送回工作会话</button></div><div id="agent-discussion-messages"></div><form id="agent-discussion-form"><label for="agent-discussion-thread">回复到</label><select id="agent-discussion-thread"></select><label for="agent-discussion-reply">发言</label><textarea id="agent-discussion-reply" maxlength="20000" required></textarea><div class="bound-form-actions"><button id="save-agent-discussion-reply" class="small-button" type="submit">保存发言</button><button id="save-ask-agent-discussion-reply" class="small-button save-button" type="button">保存并请 Agent 回复</button></div><small>保存发言不启动 Agent；保存并请 Agent 回复直接发送这条讨论。</small></form><p id="agent-discussion-sync" role="status"></p></aside></div>
+ <form id="agent-input-form" class="agent-input-form"><label for="agent-message">给 Agent 的任务或消息</label><textarea id="agent-message" placeholder="描述要做的事，或从文档讨论进入…" maxlength="20000" required></textarea><div class="agent-input-options"><label><input id="include-current-document" type="checkbox"> 附上文档正文（可选） <span id="agent-document-label"></span></label><span id="agent-thread-context"></span><label id="full-context-option" hidden><input id="full-agent-context" type="checkbox"> 重发完整讨论</label><button id="clear-agent-thread" type="button" class="small-button" hidden>改为全部待处理讨论</button></div><details id="agent-preview-panel" hidden><summary>将发送的完整内容</summary><pre id="agent-preview"></pre></details><p id="agent-send-hint" class="subtle" role="status">输入消息后可直接发送，也可先预览。</p><div class="agent-input-actions"><span id="agent-input-status" role="status"></span><button id="preview-agent-input" type="button" class="small-button">预览任务</button><button id="send-agent-input" type="submit" class="small-button save-button" disabled>发送</button></div></form>
  </main>
 </div>
 <main id="memory-workspace" class="memory-workspace" hidden><div class="reader-toolbar"><div><h2>Claude-Mem 记忆</h2><p>原生 hooks 自动记录工具结果与会话摘要，MCP 按需检索；在查看器内选择当前项目。</p></div><div class="reader-actions"><button id="memory-reload" class="small-button" disabled>刷新查看器</button><a id="memory-external" class="small-button" target="_blank" rel="noopener noreferrer" hidden>另开页面 ↗</a></div></div><form id="memory-connect-form" class="memory-connect-form"><label for="memory-url">本地查看器地址</label><input id="memory-url" type="url" placeholder="填写 claude-mem 启动时显示的 HTTP 地址" required><button id="memory-connect" class="small-button save-button">连接查看器</button><span id="memory-status" role="status"></span></form><details id="memory-setup"><summary>自动记忆设置与 hooks 信任</summary><p>安装原生集成：<code>npx claude-mem@13.34.2 install --ide codex-cli --provider codex</code>。记忆摘要会使用独立模型调用，可在查看器设置中调整。若网页无法显示查看器，可点击“另开页面”。</p><label>检查会话<select id="memory-session"></select></label><button id="memory-check-hooks" class="small-button">读取原生记忆 hooks</button><p id="memory-hook-status" role="status"></p><div id="memory-hooks"></div><button id="memory-trust-hooks" class="small-button save-button" disabled>信任已展示的记忆 hooks</button><p>信任保存在 Codex 用户配置，适用于相同原生定义；有变化需再次检查。已有会话结束当前任务后关闭并恢复，重新载入插件和 SessionStart 记忆。会话删除保留 claude-mem 记忆。</p></details><iframe id="memory-frame" title="Claude-Mem 本地记忆查看器" sandbox="allow-scripts allow-same-origin allow-forms allow-downloads" referrerpolicy="no-referrer" hidden></iframe></main>

diff --git a/internal/server/web/style.css b/internal/server/web/style.css
@@ -29,3 +29,13 @@
 .breadcrumb{flex:1}.workspace.sidebar-collapsed>.sidebar,.workspace.discussion-collapsed>.discussion{display:none}@media(min-width:761px){.workspace.sidebar-collapsed{grid-template-columns:minmax(0,1fr) 345px}.workspace.discussion-collapsed{grid-template-columns:230px minmax(0,1fr)}.workspace.sidebar-collapsed.discussion-collapsed{grid-template-columns:minmax(0,1fr)}}@media(min-width:761px) and (max-width:1150px){.workspace.sidebar-collapsed{grid-template-columns:minmax(0,1fr) 300px}.workspace.discussion-collapsed{grid-template-columns:190px minmax(0,1fr)}}.link-button{border:0;background:none;padding:0;color:var(--green);font-size:11px}.link-button:hover{text-decoration:underline}.file-menu{position:relative}.file-menu>summary{display:block;list-style:none;cursor:pointer;white-space:nowrap}.file-menu>summary::-webkit-details-marker{display:none}.file-menu-items{position:absolute;right:0;top:calc(100% + 6px);z-index:5;display:flex;flex-direction:column;gap:2px;min-width:160px;padding:6px;background:white;border:1px solid var(--line);border-radius:8px;box-shadow:0 6px 18px #21382014}.file-menu-items .small-button{border:0;text-align:left}.file-menu-items .small-button:not(:disabled):hover{background:var(--soft)}#delete-button:not(:disabled){color:#8a482d}
 .bound-discussion select{width:100%;margin:6px 0 4px;padding:6px;border:1px solid var(--line);border-radius:5px;background:white;font-size:12px}.bound-thread{border-top:1px solid var(--line);padding:10px 0}.bound-thread:first-child{border-top:0}.bound-thread-pick{color:var(--muted);font-size:11px!important}.bound-thread-pick input{width:auto;margin:0 4px 0 0;vertical-align:middle}#discussion-dialog-body fieldset{border:1px solid var(--line);border-radius:6px;margin:0 0 10px;padding:8px 10px}#discussion-dialog-body legend{font-size:11px;color:var(--muted);padding:0 4px}
 .diff-view{max-width:100%;overflow:auto;font-size:12px;margin:8px 0}.diff-view .d2h-wrapper{text-align:left}.diff-view .d2h-file-wrapper{margin-bottom:8px;border-radius:6px}.diff-view .d2h-file-wrapper,.diff-view .d2h-file-diff{position:relative}.diff-view .d2h-code-line-ctn{white-space:pre-wrap;word-break:break-word}.conflict-panel{border:1px solid #ebcabc;background:#fff8f3;border-radius:8px;padding:14px 16px;margin-bottom:16px}.conflict-panel h3{margin:0 0 6px;font-size:14px;color:#8a482d}.conflict-panel p{margin:0 0 8px;font-size:12px;color:var(--muted)}.conflict-panel .diff-view{max-height:45vh;background:white}.conflict-actions{display:flex;flex-wrap:wrap;gap:8px}
+.reply-agent-line{display:flex;align-items:center;gap:8px;flex-wrap:wrap;margin-top:10px;font-size:11px;color:var(--muted)}.reply-agent-line select{flex:1;min-width:0;font-size:12px}
+.panel-composer:empty{display:none}.panel-composer{padding:14px 14px 0}
+.inline-composer{border:1px solid #c9d8c4;background:white;border-radius:9px;padding:12px 14px;margin:6px 0 18px;font-size:13px;line-height:1.6}.inline-composer textarea{width:100%;min-height:90px;padding:10px;resize:vertical;border:1px solid var(--line);border-radius:6px;background:var(--paper);font:inherit}.inline-composer blockquote{margin:0 0 8px;padding:4px 10px;border-left:3px solid #b6cbb6;background:var(--soft);color:var(--ink);font-size:12px;white-space:pre-wrap;max-height:7.5em;overflow:auto}.compose-title{margin:0 0 8px;font-weight:600;font-size:13px}.compose-options{display:flex;flex-wrap:wrap;gap:10px;align-items:center;margin-top:8px;font-size:12px}.compose-options label{display:flex;gap:6px;align-items:center}#compose-error{color:#a3412b;font-size:12px;margin:8px 0 0}
+.reply-buttons{display:flex;gap:6px;flex-wrap:wrap;justify-content:flex-end}
+.has-thread{box-shadow:inset 3px 0 0 #c8d9a6;padding-left:10px}
+.thread-markers{display:flex;flex-wrap:wrap;gap:6px;margin:-4px 0 14px;line-height:1.4}.thread-marker{font-size:11px;padding:3px 9px;border:1px solid #c9d8c4;border-radius:999px;background:#f5f8f0;color:var(--green);cursor:pointer;max-width:100%;overflow:hidden;text-overflow:ellipsis;white-space:nowrap}.thread-marker[aria-expanded=true]{background:var(--green);color:white;border-color:var(--green)}.thread-marker.resolved{color:var(--muted);background:white}.thread-marker[data-agent=running]::after,.thread-marker[data-agent=waiting]::after{content:" · Agent";font-weight:600}
+.inline-thread{margin:0 0 20px;font-size:13px;line-height:1.6}.inline-thread .thread{margin:0;border-color:#c9d8c4;box-shadow:0 2px 10px rgba(37,60,51,.06)}.thread-quote-text{margin:10px 0 0;padding:6px 10px;border-left:3px solid #b6cbb6;background:var(--soft);color:var(--ink);font-size:12px;white-space:pre-wrap}
+.thread.compact .inline-note{font-size:11px;color:var(--muted);margin:8px 0 0}.inline-note button{border:0;background:transparent;color:var(--green);font-size:11px;padding:0 4px;cursor:pointer}
+.thread-agent-state{font-size:11px;padding:3px 8px;border-radius:999px;background:var(--soft);color:var(--green)}.thread-agent-state[data-state=waiting]{background:#fbf2e2;color:#9c743c}.thread-agent-state[data-state=disconnected]{background:#fbeae4;color:#a3412b}
+.bound-form-actions{display:flex;gap:8px;flex-wrap:wrap}

diff --git a/internal/server/web/app.js b/internal/server/web/app.js
@@ -142,6 +142,7 @@ function renderMarkdown() {
   $('raw-button').setAttribute('aria-pressed',String(raw));
   $('raw-content').hidden=!raw;$('article').hidden=raw;$('raw-content').textContent=markdown;
   renderProjectMarkdown($('article'),markdown,selected);
+  if(typeof renderInlineDiscussion==='function')renderInlineDiscussion();
 }
 async function loadEntry(item) {
   if(!leaveEditor())return;

diff --git a/README.md b/README.md
@@ -11,9 +11,9 @@ Agent Workbench 是单项目本地网页工作台，把 Markdown 文档、批注
 | 项目 | 新建模板项目、打开已有项目；一个进程绑定一个项目 |
 | 文档 | Markdown 阅读、LaTeX 公式渲染、原文编辑保存、新建、重命名与删除、外部刷新、版本冲突保护与冲突差异对比；目录树导航，工程文件默认折叠；文件栏与批注栏可收起 |
 | 代码文件 | 目录树中只读查看代码与其他文本文件，通过 `--editor` 指定的外部编辑器打开 |
-| 批注 | 引用批注、整篇意见、备忘、回复、Rebuttal、结论、解决与重开 |
+| 批注 | 引用批注、整篇意见、备忘、回复、Rebuttal、结论、解决与重开；批注编辑框和展开的讨论显示在正文所引段落下方 |
 | Agent | Codex 新会话、任务预览与发送、排队、中断、清空上下文、关闭、显式恢复和删除 |
-| 讨论交付 | 每份文档一个讨论会话、增量材料、按文档批量交付、最终回复按讨论分段自动写回、结论送回工作会话 |
+| 讨论交付 | 文档页直接请 Agent 回复并显示处理状态、每份文档一个讨论会话、增量材料、按文档批量交付、最终回复按讨论分段自动写回、结论送回工作会话 |
 | 执行反馈 | 对话与执行双时间线、文件修改逐行差异、完整原始日志、执行状态与交互提醒 |
 | 权限 | 原生审批与问题响应、项目或会话范围的命令前缀授权及撤销 |
 | 交互图 | iframe 展示 Archify 等工具生成的独立 HTML |
@@ -104,16 +104,18 @@ go build -o bin/agent-workbench ./cmd/agent-workbench
 
 左侧默认展示计划、设计、证据和交互图，`AGENTS.md`、`CLAUDE.md` 等可在“工程文件”中展开。Markdown 使用“编辑原文”修改，再明确保存。外部修改造成版本冲突时保留草稿，核对最新内容后再保存；冻结讨论证据及只读区域不能保存。保存不自动提交 Git。
 
-选中文字建立引用批注，也可以添加整篇意见和备忘。讨论支持回复、Rebuttal、结论、解决与重开，刷新或重启后继续保留。
+选中文字后，批注编辑框显示在该段落下方；整篇意见和备忘在批注栏顶部填写。带批注的段落下方显示批注标记，点击标记或批注栏中的引用，在正文内展开完整讨论。讨论支持回复、Rebuttal、结论、解决与重开，刷新或重启后继续保留。
 
-通过“让 Agent 参与讨论”选择工作会话，工作台创建或打开该文档的讨论会话；同一文档的全部批注共用这个会话和原生 thread，不同文档使用不同会话。批注可跨文档多选，通过“批量交给 Agent”统一指定任务要求；所选讨论按文档合并，每份文档预览一次、发送一个回合。Agent 按「### 讨论 <ID>」分段回应，服务把各段写回对应讨论；回复缺少可识别的分段时不猜测归属，保留在会话中供手动加入。部分失败不会自动重发已交付项。
+在批注栏顶部选择回复所用的工作会话后，讨论上的“请 Agent 回复”或“保存并请 Agent 回复”在文档页直接发送本条讨论，不切换页面，也不经过预览；讨论显示 Agent 正在回复、排队或写回状态，回复写回后显示在原讨论中。实际发送内容和执行细节在 Agent 页对应会话中查看。
+
+讨论上的“在 Agent 页处理”选择工作会话后进入 Agent 页，工作台创建或打开该文档的讨论会话；同一文档的全部批注共用这个会话和原生 thread，不同文档使用不同会话。批注可跨文档多选，通过“批量交给 Agent”统一指定任务要求；所选讨论按文档合并，每份文档预览一次、发送一个回合。Agent 按「### 讨论 <ID>」分段回应，服务把各段写回对应讨论；回复缺少可识别的分段时不猜测归属，保留在会话中供手动加入。部分失败不会自动重发已交付项。
 
 材料发送规则：
 
 - 首次发送所选讨论的引用和全部发言。
 - 后续发送新增、修改或删除的发言及变化的引用。
 - 文档正文默认不附带；主动勾选后才发送，未变化且已送达的正文跳过。
-- 人工回复保存后，明确预览并发送才触发模型。
+- 保存发言不触发模型；“请 Agent 回复”或 Agent 页发送后才启动回合。Agent 页可直接发送，也可先预览。
 - 最终回复由服务自动写回；结论“送回工作会话”仍需预览和发送。
 - 任务指令末尾附带统一的回复可读性要求（结论先行、结构分块、默认每条讨论 300 字以内、代码块带语言、实施说明改动与验证），发送预览中可见。
 
